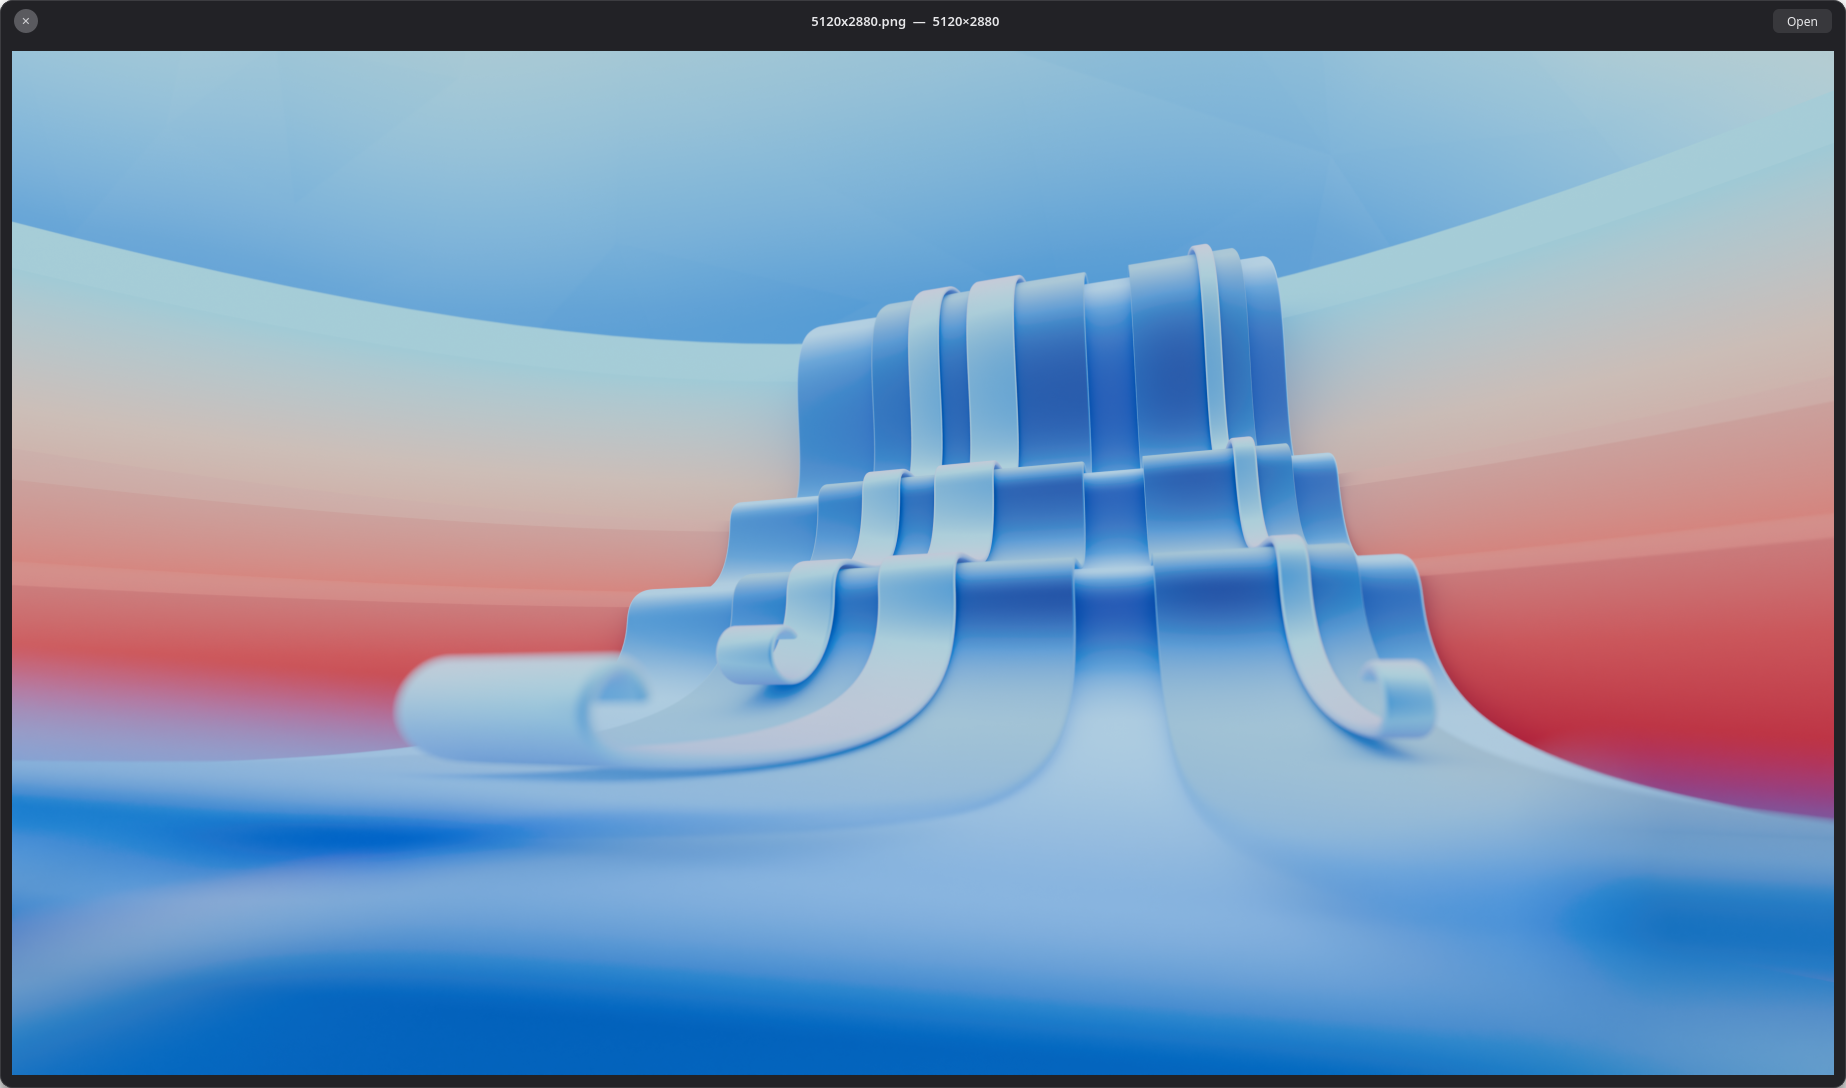
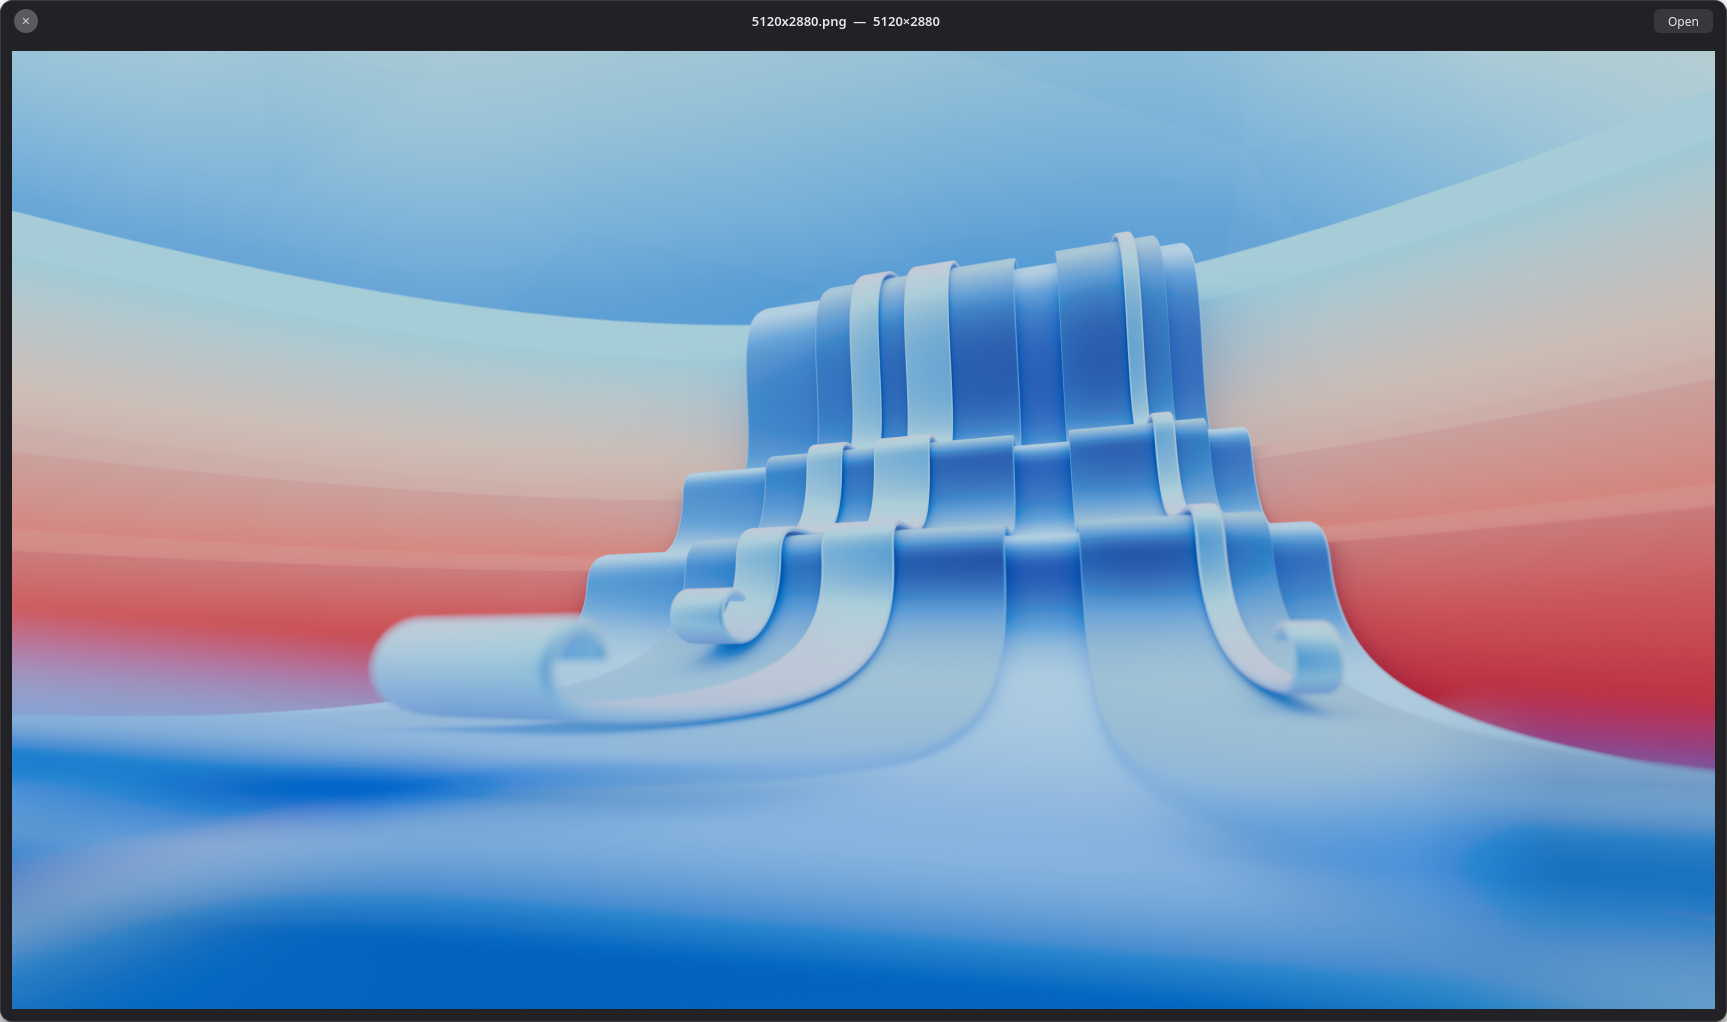
Refresh the README screenshots and add one of the breeze theme
The PDF, image and source screenshots were taken before the titlebar
gained the contents button, so they no longer showed what the default
quicklook panel looks like. Retake them with the same files at the same
sizes. Add a breeze shot to the panel_theme section: the same PDF, on a
dark Plasma scheme, with the contents sidebar open.

diff --git a/README.md b/README.md
@@ -161,6 +161,8 @@ when you change schemes rather than waiting for a restart. It also squares
 the corners off and moves the close button to the right, where a Plasma
 window decoration puts it.
 
+![The breeze panel theme on a dark Plasma colour scheme, with a PDF's contents sidebar open](docs/screenshots/breeze.png)
+
 One thing it does not follow is `code_style`: the colours in a highlighted
 source file come from Pygments, in the sandboxed worker, and the default
 `one-dark` is built for a dark background. On a **light** Plasma scheme, set
